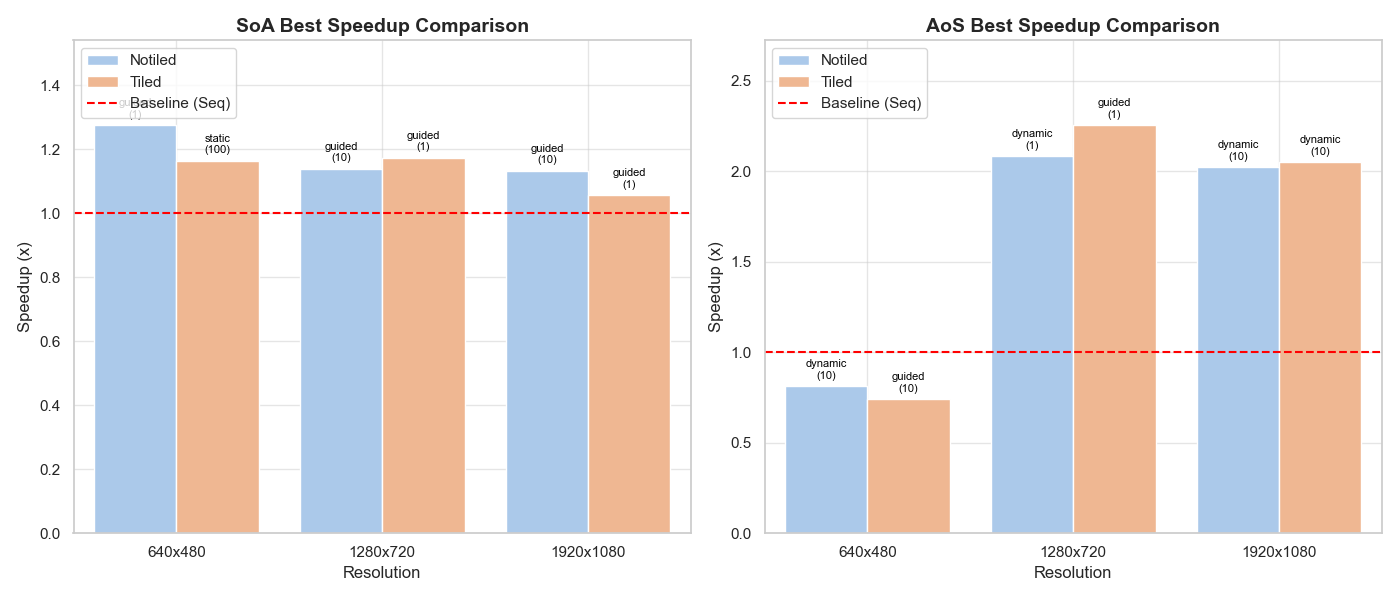
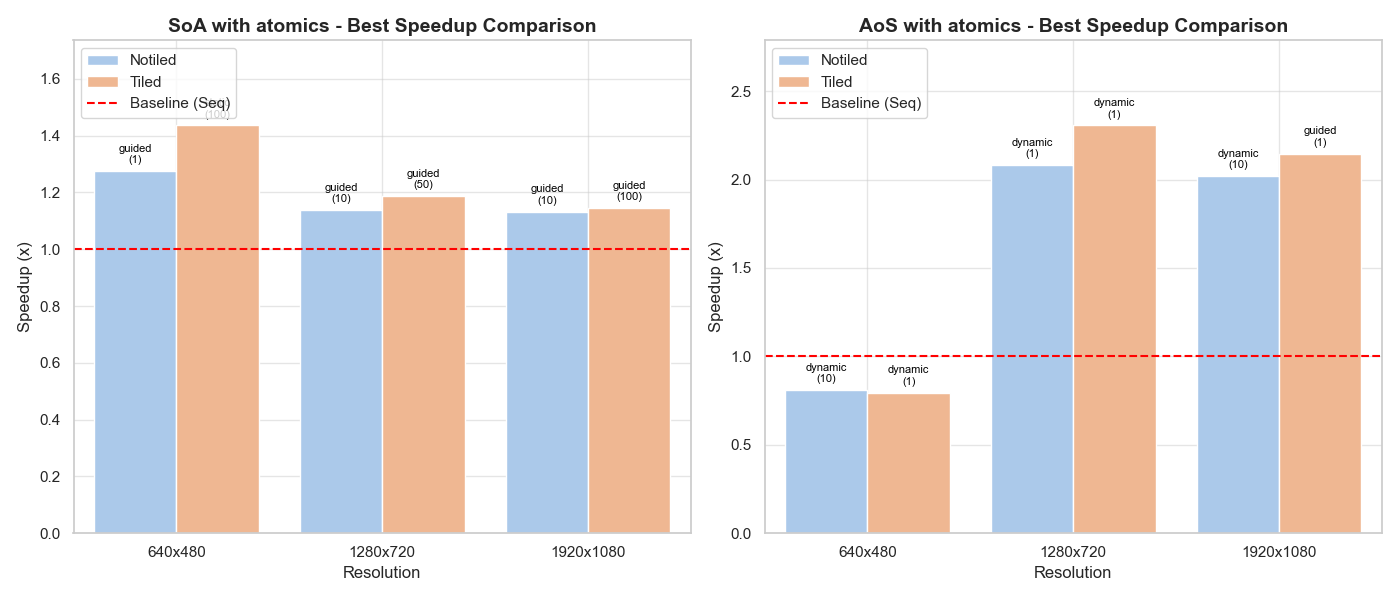
Changed the Tile size and run again some  test

diff --git a/scripts/graphs_generator.py b/scripts/graphs_generator.py
@@ -229,11 +229,9 @@ def speed_up_analysis(df_sequential, df_parallel_reduction, df_parallel_atomics)
 def amdahl_experiment_pie_chart(df):
     df_index = df.columns.tolist()[:-2]
     df_index = [col.replace("_ms", "") for col in df_index]
-    print(df_index)
     df_values = df.iloc[0].tolist()[:-2]
 
     explode = [0,0,0,0.1]
-    print (df_values)
     fig, ax= plt.subplots()
     wedges, texts,autopct = ax.pie(df_values, labels=df_index,textprops=dict(color="w"), explode=explode,shadow=True, startangle=90, autopct= lambda pct: f"{pct:1.2f}%\n",)
     ax.legend(wedges, df_index,
@@ -296,7 +294,7 @@ def tiled_speedup_analysis(df_tiled, df_notiled, df_sequential, string_name):
     ax1 = axes[0]
     sns.barplot(data=best_soa, x='Resolution', y='SoA_Speedup', hue='Mode',
                 order=res_order, hue_order=hue_order, palette='pastel', ax=ax1)
-    ax1.set_title("SoA Best Speedup Comparison", fontsize=14, fontweight='bold')
+    ax1.set_title(f"SoA with {string_name} - Best Speedup Comparison", fontsize=14, fontweight='bold')
     ax1.set_xlabel("Resolution")
     ax1.set_ylabel("Speedup (x)")
     ax1.axhline(y=1.0, color='red', linestyle='--', linewidth=1.5, label='Baseline (Seq)')
@@ -309,7 +307,7 @@ def tiled_speedup_analysis(df_tiled, df_notiled, df_sequential, string_name):
     ax2 = axes[1]
     sns.barplot(data=best_aos, x='Resolution', y='AoS_Speedup', hue='Mode',
                 order=res_order, hue_order=hue_order, palette='pastel', ax=ax2)
-    ax2.set_title("AoS Best Speedup Comparison", fontsize=14, fontweight='bold')
+    ax2.set_title(f"AoS with {string_name} - Best Speedup Comparison", fontsize=14, fontweight='bold')
     ax2.set_xlabel("Resolution")
     ax2.set_ylabel("Speedup (x)")
     ax2.axhline(y=1.0, color='red', linestyle='--', linewidth=1.5, label='Baseline (Seq)')

diff --git a/benchmark.cpp b/benchmark.cpp
@@ -651,7 +651,7 @@ int main() {
     std::cout << "\n--- Parallel Benchmark without Tiling and with Atomic --- \n" << std::endl;
     //Parallel without tiling and with atomic
     run_averaged_benchmark(cfg,3,false,true,false);
-
+    */
     std::cout << "\n--- Parallel Benchmark with Tiling and with Reduction ---\n" << std::endl;
     //Parallel with Tiling and with reduction
     run_averaged_benchmark(cfg, 3,true,true);
@@ -659,7 +659,7 @@ int main() {
     std::cout << "\n--- Parallel Benchmark with Tiling and with Atomic --- \n" << std::endl;
     //Parallel with Tiling and with atomic
     run_averaged_benchmark(cfg,3,true,true,false);
-*/
+    /*
     //Amhdal Law to see if we can parallelize the Enforce Connectivity function
     cv::Mat raw_image = cv::imread(PATH_example);
     cv::Mat image, image_lab;
@@ -676,7 +676,7 @@ int main() {
 
     cv::imshow("Image 2", image);
     cv::waitKey(0);
-    display_evolution(&par_aos);
+    display_evolution(&par_aos);*/
 
     return 0;
 }

diff --git a/src/SLIC_Algorithm_SoA_Parallel.cpp b/src/SLIC_Algorithm_SoA_Parallel.cpp
@@ -62,11 +62,12 @@ void SLIC_Algorithm_SoA_Parallel::iteration() {
                 }
             }
         }else{
+            int current_tile_size = 2 * this->S;
             #pragma omp for collapse(2) schedule(static)
-            for (int by = 0; by < rows; by += TILE_SIZE) {
-                for (int bx = 0; bx < cols; bx += TILE_SIZE) {
-                    int y_end = std::min(by + TILE_SIZE, this->image_lab.rows);
-                    int x_end = std::min(bx + TILE_SIZE, this->image_lab.cols);
+            for (int by = 0; by < rows; by += current_tile_size) {
+                for (int bx = 0; bx < cols; bx += current_tile_size) {
+                    int y_end = std::min(by + current_tile_size, this->image_lab.rows);
+                    int x_end = std::min(bx + current_tile_size, this->image_lab.cols);
                     for (int y = by; y < y_end; y++) {
                         int grid_y = y / S;
                         for (int x = bx; x < x_end; x++) {

diff --git a/src/SLIC_Algorithm_AoS_Parallel.cpp b/src/SLIC_Algorithm_AoS_Parallel.cpp
@@ -60,11 +60,12 @@ void SLIC_Algorithm_AoS_Parallel::iteration() {
                 }
             }
         } else {
+            int current_tile_size = 2 * this->S;
 #pragma omp for collapse(2) schedule(runtime)
-            for (int ty = 0; ty < rows; ty += TILE_SIZE) {
-                for (int tx = 0; tx < cols; tx += TILE_SIZE) {
-                    int y_end = std::min(ty + TILE_SIZE, rows);
-                    int x_end = std::min(tx + TILE_SIZE, cols);
+            for (int ty = 0; ty < rows; ty += current_tile_size) {
+                for (int tx = 0; tx < cols; tx += current_tile_size) {
+                    int y_end = std::min(ty + current_tile_size, rows);
+                    int x_end = std::min(tx + current_tile_size, cols);
 
                     for (int y = ty; y < y_end; y++) {
                         int grid_y = y / S;
